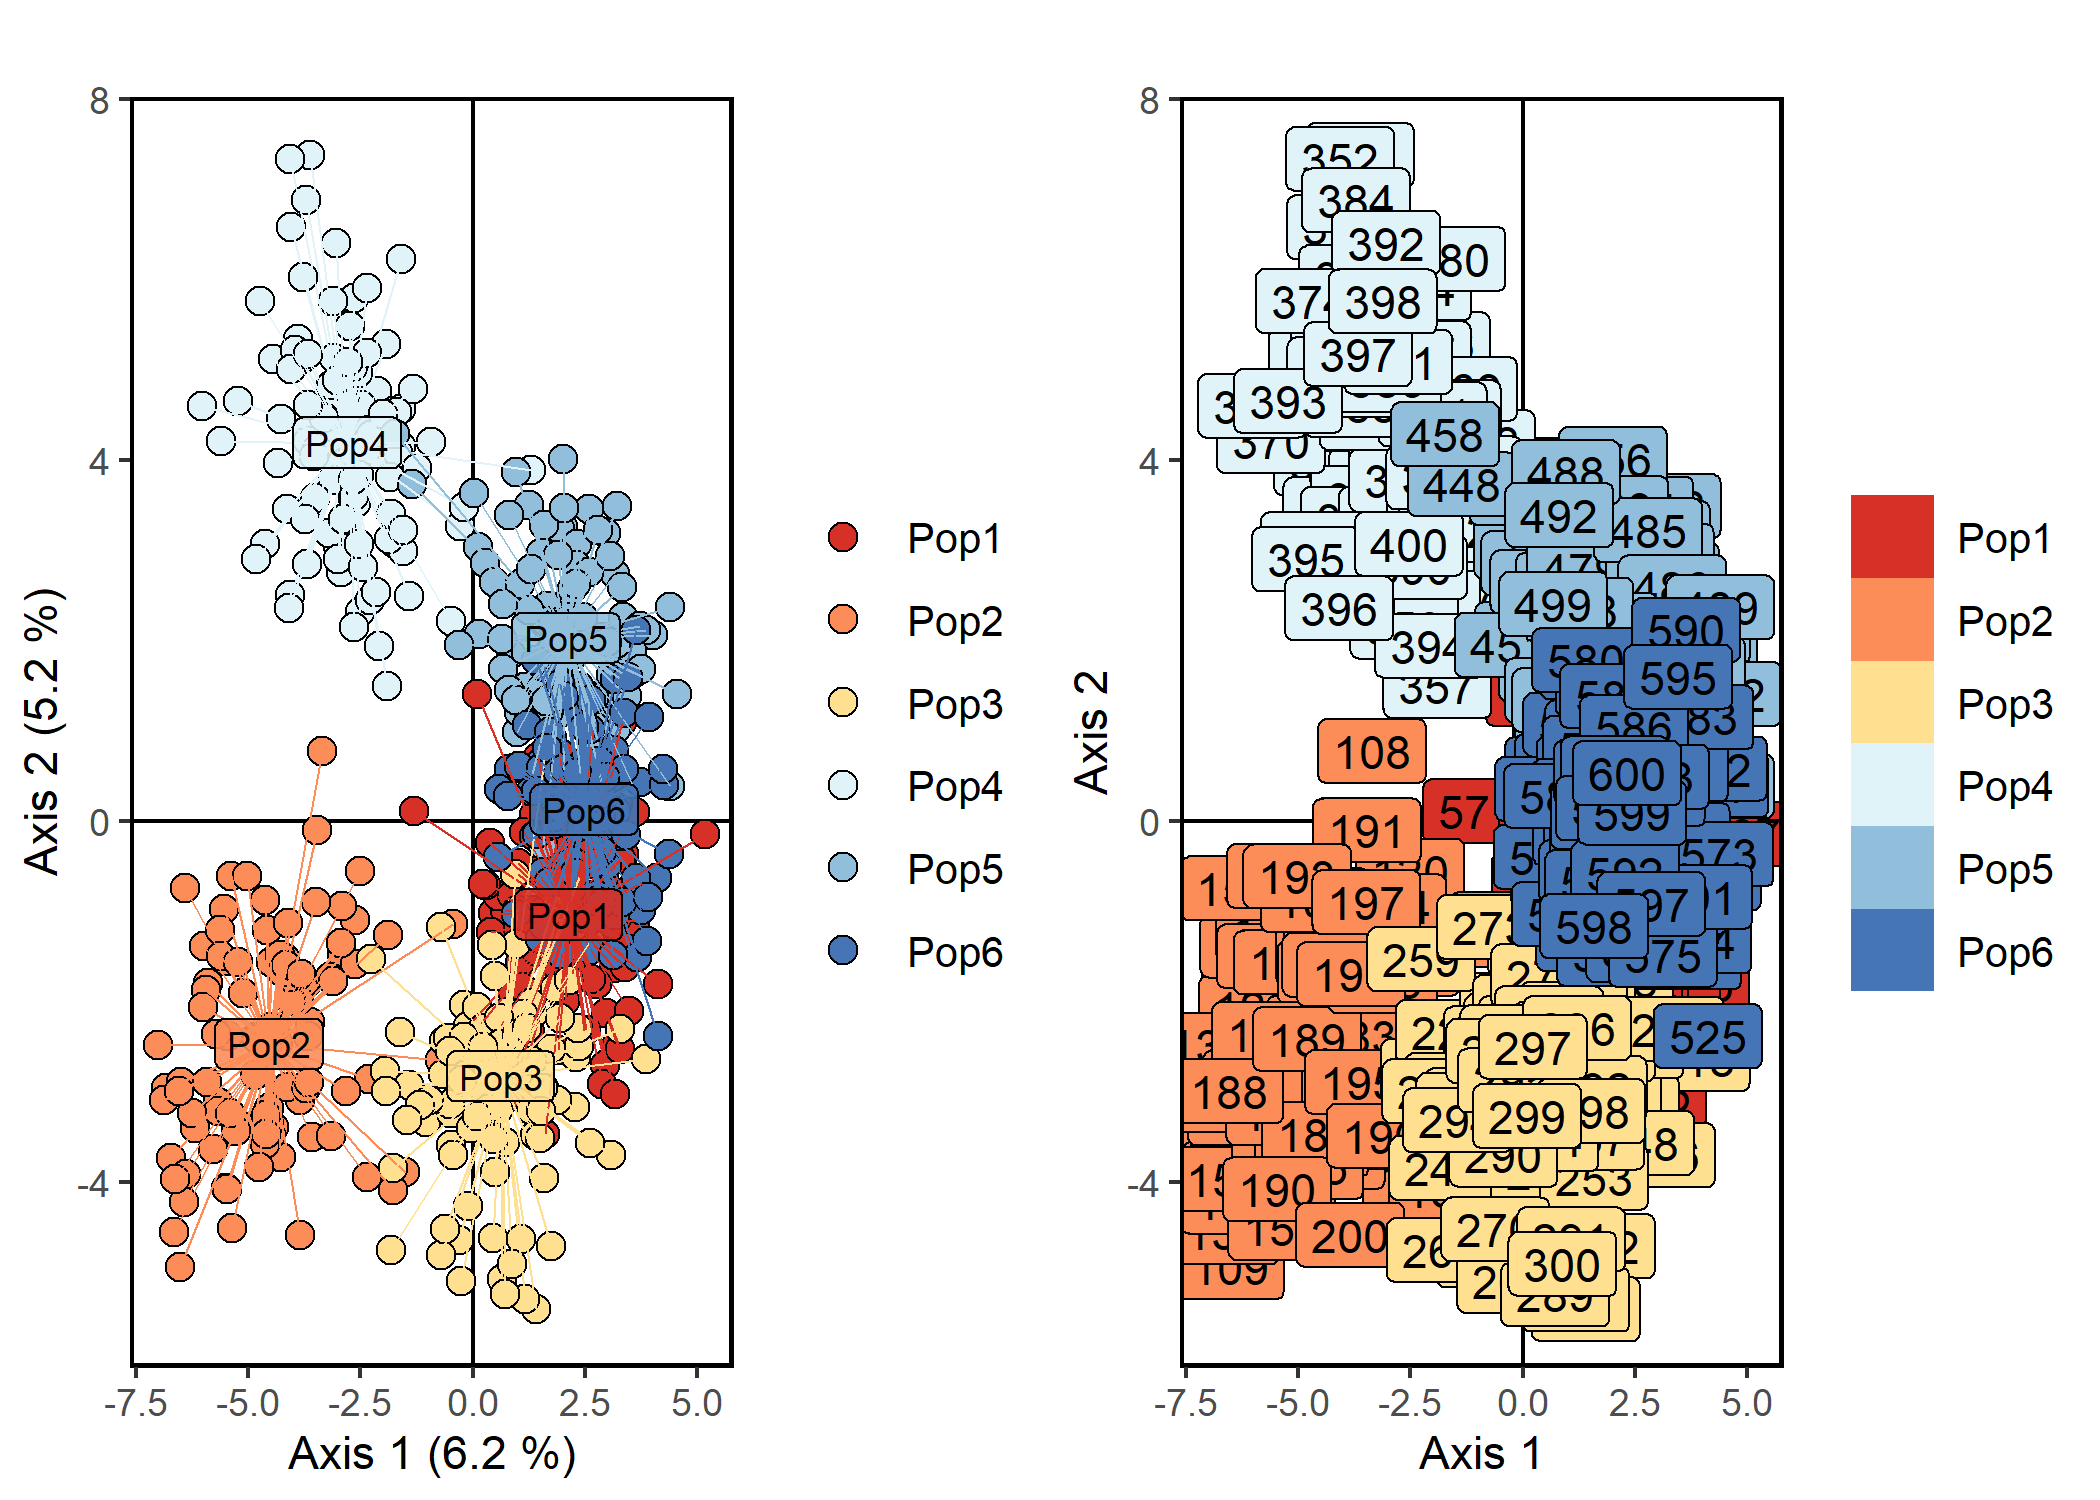
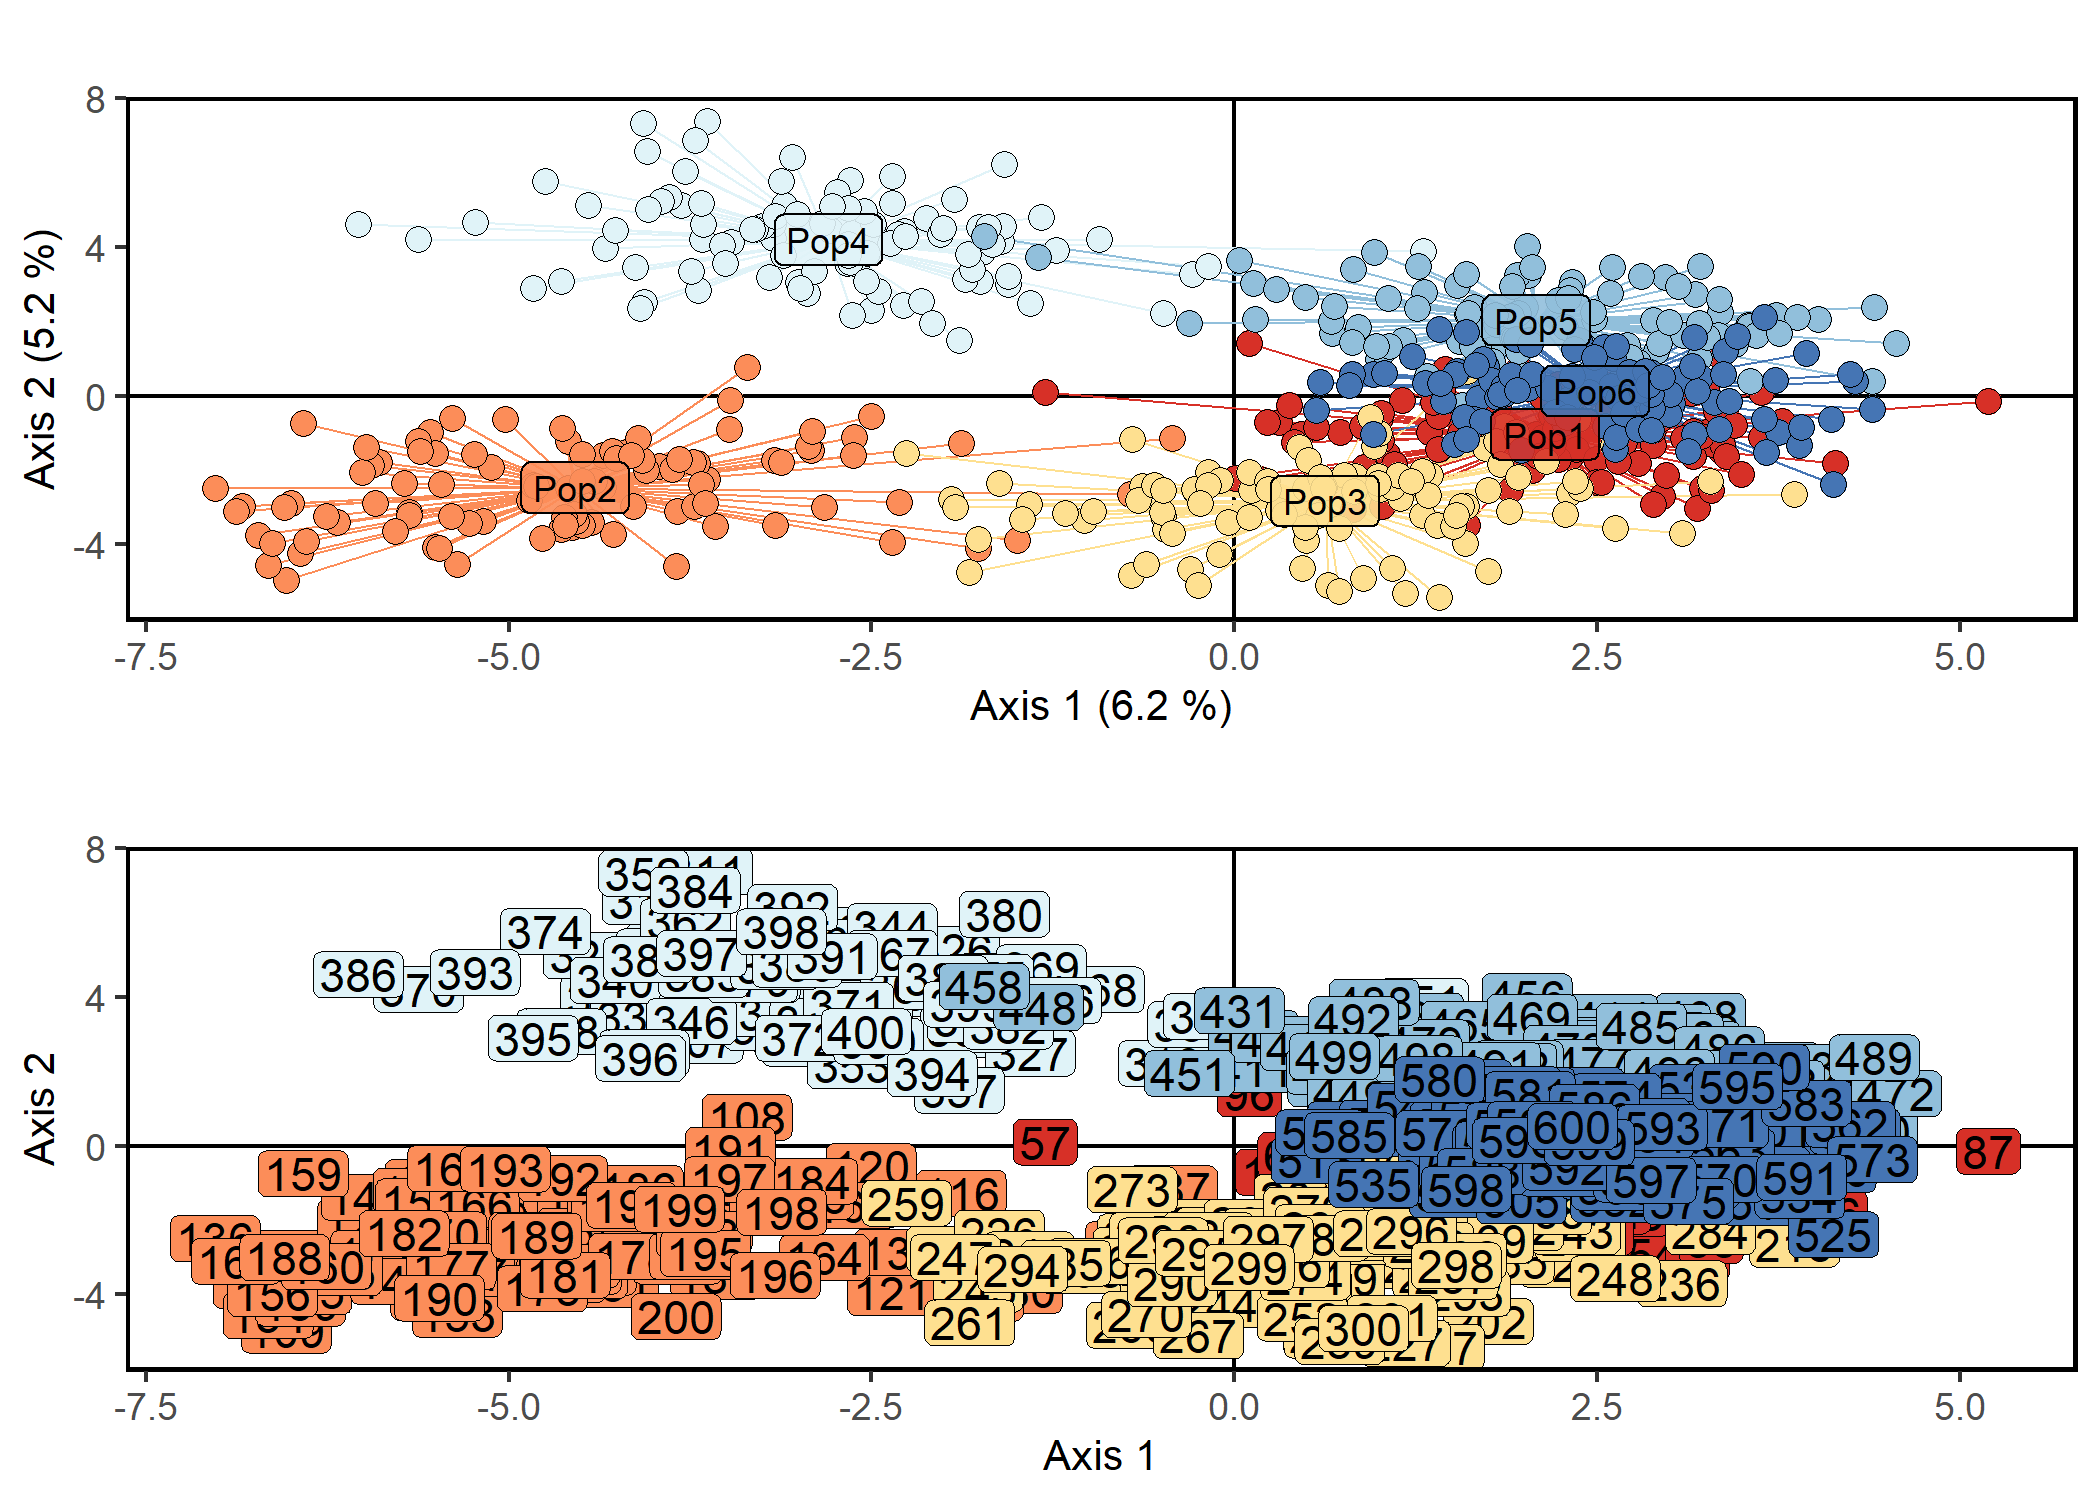
Update scatter plot code and readme

diff --git a/README.md b/README.md
@@ -398,7 +398,7 @@ admix_coords <- merge_coords_data(coords_df, admixture_df) |> transform_df_coord
 # Plot map and add pie charts
 map6 <- ggplot()+
   geom_sf(data = world, colour = "black", fill = "#d9d9d9", size = 0.1)+
-  geom_sf(data = mczs, aes(fill = "MCZs"), size = 0.1)+
+  geom_sf(data = mczs, aes(fill = "MCZs"), linewidth = 0.3)+
   scale_fill_manual(values = c("yellow"))+
   coord_sf(
     xlim = c(boundary[["xmin"]], boundary[["xmax"]]),
@@ -445,6 +445,9 @@ geno = dapcIllus$a
 # Change population labels
 popNames(geno) = c("Pop1","Pop2","Pop3","Pop4","Pop5","Pop6")
 
+# Region names
+region_names <- rep(c("Region1", "Region2"), each = 300)
+
 # Define colour palette
 cols = brewer.pal(nPop(geno), "RdYlBu")
 
@@ -461,20 +464,86 @@ scatter1 <- scatter_plot(
   type = "points",
   axes = c(1,2),
   percent = percent,
-  colours = cols
-)
+  colours = cols,
+  point_size = 2,
+  point_type = 21,
+  centroid_size = 2,
+  stroke = 0.1,
+  plot_title = "PCA coloured by group_ids"
+)+
+  theme(
+    legend.position = "none",
+    axis.title = element_text(size = 8),
+    axis.text = element_text(size = 6),
+    plot.title = element_text(size = 10),
+  )
+
+# Same as scatter1 but no segments and axis 1 and 3 are shown
+scatter2 <- scatter_plot(
+  dataframe = pca1$li,
+  group_ids = geno$pop,
+  type = "points",
+  axes = c(1,3),
+  percent = percent,
+  colours = cols,
+  point_size = 2,
+  point_type = 21,
+  centroids = TRUE,
+  centroid_size = 2,
+  segments = FALSE,
+  stroke = 0.1,
+  plot_title = "PCA no segments and axis 1 and 3 shown"
+)+
+  theme(
+    legend.position = "none",
+    axis.title = element_text(size = 8),
+    axis.text = element_text(size = 6),
+    plot.title = element_text(size = 10),
+  )
+
+# Same as scatter1 but coloured by region
+scatter3 <- scatter_plot(
+  dataframe = pca1$li,
+  group_ids = geno$pop,
+  other_group = region_names,
+  type = "points",
+  axes = c(1,2),
+  percent = percent,
+  colours = cols,
+  point_size = 2,
+  point_type = 21,
+  centroid_size = 2,
+  stroke = 0.1,
+  plot_title = "PCA coloured by other_group"
+)+
+  theme(
+    legend.position = "none",
+    axis.title = element_text(size = 8),
+    axis.text = element_text(size = 6),
+    plot.title = element_text(size = 10),
+  )
 
 # Scatter plot with labels instead of points
-scatter2 <- scatter_plot(
+scatter4 <- scatter_plot(
   dataframe = pca1$li,
   group_ids = geno$pop,
   type = "labels",
   labels = rownames(pca1$li),
-  colours = cols
-)
+  colours = cols,
+  size = 2,
+  label.size = 0.10,
+  label.padding = unit(0.10, "lines"),
+  plot_title = "PCA using labels instead of points"
+)+
+  theme(
+    legend.position = "none",
+    axis.title = element_text(size = 8),
+    axis.text = element_text(size = 6),
+    plot.title = element_text(size = 10),
+  )
 
 # Arrange plots
-# grid.arrange(scatter1, scatter2, ncol = 2)
+# grid.arrange(scatter1, scatter2, scatter3, scatter4)
 ```
 
 </details>
